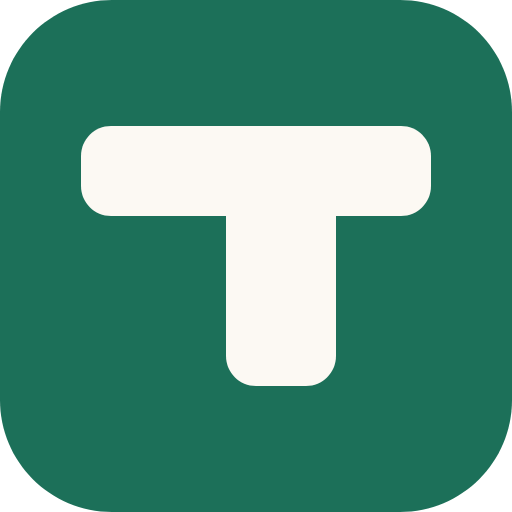
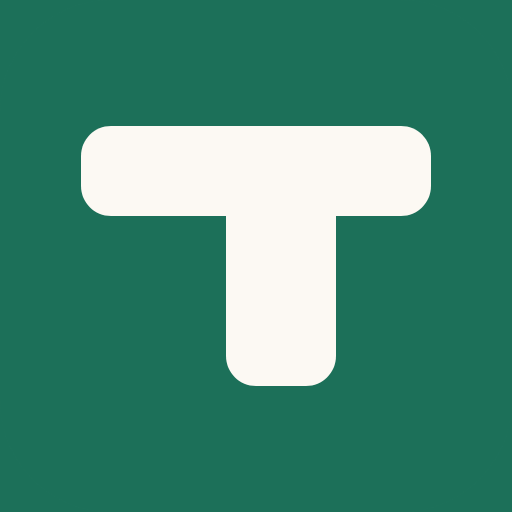
修 manifest 圖示的透明角，補成 DESIGN.md 要求的方形滿版
真機回報深色主畫面下 app icon 是黑底白 T。伺服器端先前已全部排除，這次
逐像素檢查抓到實作違規：icon-192.png 與 icon-512.png 的角落是 A0 全透明
（預先切了圓角），只有 apple-touch-icon.png 是合規的滿版。DESIGN.md v2.5
早就寫了「PNG 一律方形滿版、不預先切圓角——透明角在暗色桌面上被合成成
暗色」，但那兩個檔一直沒照做；圖片資產沒有 lint 也沒有測試會抓，規則寫在
文件裡不等於檔案照做。已把透明區合成到 --accent 底補滿，版本參數 bump v3。

另查證並記進 DESIGN.md：web 端無法為 PWA 指定深色模式圖示變體，
prefers-color-scheme 對 icon 無效（只對 splash screen 有效），iOS 18 的
深色／色調圖示是原生 app 用 Xcode asset catalog 提供的，web clip 沒有對應
機制，也沒有退出系統處理的開關。

diff --git a/index.html b/index.html
@@ -2,9 +2,9 @@
 <html lang="zh-Hant">
   <head>
     <meta charset="UTF-8" />
-    <link rel="icon" type="image/svg+xml" href="./favicon.svg?v=2" />
-    <link rel="apple-touch-icon" href="./apple-touch-icon.png?v=2" />
-    <link rel="manifest" href="./manifest.webmanifest?v=2" />
+    <link rel="icon" type="image/svg+xml" href="./favicon.svg?v=3" />
+    <link rel="apple-touch-icon" href="./apple-touch-icon.png?v=3" />
+    <link rel="manifest" href="./manifest.webmanifest?v=3" />
     <meta name="theme-color" content="#1C7059" />
     <meta name="viewport" content="width=device-width, initial-scale=1, viewport-fit=cover" />
     <meta name="color-scheme" content="light" />

diff --git a/session-state/active.md b/session-state/active.md
@@ -18,17 +18,15 @@
 
 ### 本輪（2026-08-03，`823d929`）：今日頁品項就地編輯，DESIGN.md → v2.20
 
-走完 dev-flow（規模大）＋ ui-design-flow ➊➋➌。點按品項就地展開編輯區（份量 stepper ＋ 餐別
-分段控制器 ＋ 刪除），**長按開 sheet 整套移除**。完整決策與被否決的方案記在 DESIGN.md v2.20，
-這裡只留三個之後還用得到的結論：
+走完 dev-flow（規模大）＋ ui-design-flow ➊➋➌➍ ＋ precommit-review（light）。點按品項就地展開
+編輯區（份量 stepper ＋ 餐別分段控制器 ＋ 刪除），**長按開 sheet 整套移除**。完整決策、被否決的
+方案、兩道 review 的處置明細全部記在 DESIGN.md v2.20，這裡只留兩個之後還用得到的結論：
 
 - **需求追到底才發現問法是錯的**：使用者要的「編輯這筆紀錄的品名與熱量」在資料模型下走不通
   （`intake` 只存快照與 `food_id`，品名是 join `foods` 拿的），真正的解是「以現有食物為範本
-  新增食物」——已併進食品庫管理那一輪的範圍，不在這裡做。
+  新增食物」——已併進食品庫管理那一輪的範圍。
 - **拒絕了「長按改成拖曳換餐別」**：同元素兩套 drag ＋ 跨區段 hit-testing ＋ 小螢幕手指擋目標，
   換來的只是把「一個月幾次」的操作少一步。拖曳真正贏的場景是排序，Tally 沒有手動排序。
-- 三輪 A/B 樣張才收斂（刪除鈕位置 → 形狀家族與右緣對齊 → 內距與懸出），使用者兩次指出的
-  都是我沒看到的問題（形狀家族混用、12px 對齊差）。
 
 ## 已驗證事實
 
@@ -65,12 +63,18 @@
 
 ## 未解失敗
 
-- **app icon 真機仍顯示黑底白 T（2026-08-03 診斷，等使用者回報）**。伺服器端全部排除：Actions
-  五次部署皆 success、線上 `manifest.webmanifest` 帶 `?v=2`、`apple-touch-icon.png` 與 repo
-  md5 一致、**檔案打開看過是綠底白 T**。剩兩個嫌疑，都在 iOS 端：
-  ① **iOS 18 主畫面圖示外觀設定**（長按主畫面 → 編輯 → 自訂，選了「深色」或「色調」的話系統會
-  把沒提供深色版的圖示壓暗，綠底變黑、白 T 保留，跟回報一模一樣）——三秒可驗，先查這個；
-  ② Web Clip 圖示快取（要移除主畫面圖示 →「設定 › Safari › 清除瀏覽記錄與網站資料」→ 重加，缺一步都可能沒換）。
+- **app icon 在 iOS 深色主畫面下顯示黑底白 T**（使用者確認他刻意用深色模式，要的就是深色下也正確）。
+  進度：**伺服器端全部排除**（部署 success、線上檔與 repo md5 一致、圖檔本身是綠底白 T）。
+  **2026-08-03 逐像素檢查抓到一個實作違規並已修**：`icon-192.png`／`icon-512.png` 的角落是
+  `A0` 全透明（預先切了圓角），違反 DESIGN.md v2.5 自己寫的「PNG 一律方形滿版、不預先切圓角
+  ——透明角在暗色桌面上被合成成暗色」；只有 `apple-touch-icon.png` 合規。已把透明區合成到
+  `--accent` 底補成滿版，版本參數 bump `?v=3`。**等真機再驗**（要移除主畫面圖示 →
+  「設定 › Safari › 清除瀏覽記錄與網站資料」→ 重加，缺一步都可能沒換）。
+  **已查證的天花板**：web 端**無法**為 PWA 指定深色模式圖示變體——`prefers-color-scheme` 對
+  icon 無效（只對 splash screen 有效），iOS 18 的深色／色調圖示是原生 app 用 Xcode asset
+  catalog 提供的，web clip 沒有對應機制，也沒有退出系統處理的開關。所以「深色下跟淺色長一樣、
+  不要翻轉」在 web 端做不到。**若補滿版後仍不理想，剩下唯一的槓桿是把背景做成透明、只留 T 的
+  形狀**（讓系統填深色底 → 深底綠 T），代價是淺色模式的外觀也會跟著變成淺底綠 T，要使用者裁決。
 - **vitest 在 Git Bash 集合階段全炸**：已定位 MSYS 環境特有，實務解＝本機一律 PowerShell 跑。
 - **全量並行跑（5 workers）時偶發 flaky**：`tally.spec.ts` 撞過「刪除後焦點沒接到復原鈕」，
   `vendor-autocomplete.spec.ts` 撞過「打新店家送出」（2026-08-03）。兩者單獨跑都穩定過，
@@ -114,18 +118,11 @@
 
 1. **本輪已 push（`823d929`，2026-08-03）**，兩道 review 都跑完。全量驗證：vitest 59/59、
    build、lint 0、e2e 31/31、webkit 393×745 截圖與幾何量測看過。
-   - **`ui-design-flow` ➍ 首次真的執行**：三個獨立 reviewer 並行（hallmark／impeccable／
-     web-design-guidelines），38 條 findings，回修 16 條、實測推翻 2 條、附理由不修 5 條，
-     明細記在 DESIGN.md v2.20。
-   - **`precommit-review`（light，runId `wf_4b061f06-25f`）**：1 條 confirmed major
-     ＋ 8 條 unverified-minor ＋ 1 條被對抗性驗證駁回。confirmed 那條是**本輪自己引入的
-     迴歸**——失敗訊息提到 Today 層時，沒把 v2.14 sheet 每次開啟都 `setEditErr(null)` 這件事
-     帶過來，收合再展開同一列會重現上次的錯誤。已修並補 e2e 鎖（順帶擴充 `stub.ts` 加
-     `__failNext` 一次性寫入失敗注入，這環境 `page.route()` 不攔截，失敗路徑只能從 stub
-     內部注入）。另修 4 條 minor（async 回呼蓋掉別列、e2e 註解仍寫 FLIP、`.seg button:disabled`
-     死 CSS、`updateIntakeMeal` 型別收斂成 `MealKey`）、`.ed-error` 與 `.sheet-error` 合併。
-     2 條標理由不修（Supabase 原始錯誤訊息透傳＝與既有慣例一致且單人自用；`patchIntakeRow`
-     守門是刻意保留的 hedge，註解已誠實記帳）。
+   - **➍**（首次真的執行）：3 個獨立 reviewer，38 findings → 回修 16、實測推翻 2、附理由不修 5。
+   - **`precommit-review` light，runId `wf_4b061f06-25f`**：1 confirmed（本輪引入的迴歸：失敗
+     訊息提到 Today 層時漏帶舊 sheet 的 `setEditErr(null)`，收合再展開會重現舊錯誤）已修＋補
+     e2e 鎖；另修 4 minor、2 條標理由不修。**順帶擴充 `stub.ts` 的 `__failNext`**：一次性寫入
+     失敗注入，這環境 `page.route()` 完全不攔截，失敗路徑只能從 stub 內部注入。
    **實測補充**（AC7 鍵盤路徑的證據）：從品名列按一次 Tab，焦點落在「減少份量」按鈕
    （實測 `activeElement` 為 `.qty-btn[aria-label="減少份量"]`）；最後一列展開後編輯區
    底部 625、tabbar 頂部 682（viewport 745），`scrollIntoView({block:'nearest'})` 留下

diff --git a/DESIGN.md b/DESIGN.md
@@ -141,7 +141,7 @@ leading 反向：大字緊（主數字 `.95`、餐別名 `1.2`），內文鬆（
 | 空狀態（每天早上） | **不做 0% 的最小可見態、不填那段空白**。數字（`1860`、`0/1860`）與四個空心節點已經讀得出「今天還沒開始」；補文案解釋已在下方否決，補假的進度條像素則是騙人 |
 | 登入頁 | **極簡（v2.0，Meta splash 式）**：畫面中心＝48px 幾何 T mark（jade）＋主角問句「今天吃了什麼？」（1.25rem / 500 / `--ink`、與 mark 間距 `--s-4`）；CTA 沉到**底部拇指區**（同 app 內「CTA 固定在拇指區」原則）。此屏只在首次使用或登出後出現——session 會持續，平常打開直接進今日頁。**不放 Google 彩色 logo**——fill-based 圖示與「全部 inline SVG、`stroke-width: 1.6`、`fill: none`」的規則相斥，也省掉 Google 品牌指南的一串約束 |
 | Wordmark | **全產品不出現（v2.0 裁決）**。品牌只靠幾何 T icon；「Tally」字樣只活在 HTML `title` 與主畫面 app 名稱。連帶：wordmark 字體題作廢——當時「零 webfont、零自架字體」維持無例外，**v2.7 起改為「零 webfont（CDN 載入），數字元素允許自架」**，見「字體」章節 |
-| App icon | 方向 3 幾何 T，**v2.5 反轉配色**：`--accent` 實心底 ＋ `--card` T（1024 稿座標不變：橫 bar x162 y252 700×180 rx60、豎 stem x452 y252 220×520 rx60）。輸出 180px PNG 當 `apple-touch-icon`，favicon 用同一張圖形（favicon 保留 rx224 圓角，瀏覽器分頁不套遮罩）。60px 是驗收點——縮到書籤大小仍讀得出 T。**PNG 一律方形滿版、不預先切圓角**：iOS 對 web clip 會套自己的 squircle 遮罩，PNG 自己先切一次等於兩層圓角疊在一起，透明角在暗色桌面上被合成成暗色，整顆看起來偏濁（真機回報「暗色模式下 T 的綠太深」的可能成因之一）。反轉的另一個好處是暗桌面上的存在感——淺色 T 在深色底上不吃桌布 |
+| App icon | 方向 3 幾何 T，**v2.5 反轉配色**：`--accent` 實心底 ＋ `--card` T（1024 稿座標不變：橫 bar x162 y252 700×180 rx60、豎 stem x452 y252 220×520 rx60）。輸出 180px PNG 當 `apple-touch-icon`，favicon 用同一張圖形（favicon 保留 rx224 圓角，瀏覽器分頁不套遮罩）。60px 是驗收點——縮到書籤大小仍讀得出 T。**PNG 一律方形滿版、不預先切圓角**：iOS 對 web clip 會套自己的 squircle 遮罩，PNG 自己先切一次等於兩層圓角疊在一起，透明角在暗色桌面上被合成成暗色，整顆看起來偏濁。**這條規則 v2.5 就寫了，但 `icon-192.png`／`icon-512.png` 兩個檔一直沒照做——2026-08-03 逐像素檢查發現它們的角落是 `A0` 全透明，只有 `apple-touch-icon.png` 是合規的滿版**（規則寫在文件裡不等於檔案照做，圖片類資產沒有 lint 也沒有測試會抓，只能定期實際量）。已把兩檔的透明區合成到 `--accent` 底色上補成滿版，版本參數同步 bump 到 `?v=3`。**另已查證：web 端無法為 PWA 指定深色模式圖示變體**——`prefers-color-scheme` 對 icon 無效（只對 splash screen 有效），iOS 18 的深色／色調圖示是原生 app 透過 Xcode asset catalog 提供的，web clip 沒有對應機制，也沒有退出系統處理的開關。若補成滿版後深色模式仍不理想，剩下的唯一槓桿是把背景做成透明、只保留 T 的形狀（讓系統填底色），代價是淺色模式的外觀也會跟著變。反轉的另一個好處是暗桌面上的存在感——淺色 T 在深色底上不吃桌布 |
 | 設定頁（第一版） | 唯讀 `dl` 清單：今日目標四項 ＋「怎麼算出來的」（體重／量測日／身高／年齡／BMR／活動係數／TDEE／目標／三大比例）＋ 兩個次要動作（記體重、編輯身體參數）＋ 登出。**目標怎麼來的要看得到**——1860 是算出來的，看不到算式就只能相信它 |
 | 設定頁的編輯與記體重 | 都走**同一套 sheet**，不另做頁面。身體參數：生日／身高＋性別／目標＋活動係數／三大比例三欄，欄位規則同新增食物（floating label）。三大比例相加必須 100，前端先擋（DB 的 check 是最後一道）。記體重：量測日預設今天、體重必填、體脂選填；同一天再記是**覆蓋**（`unique(user_id, measured_on)`，寫入帶 `Prefer: resolution=merge-duplicates`）。兩者存檔後重算目標並**留在設定頁**，不跳回今日頁 |
 | floating label 的高度 | 欄位 60px、上內距 26px、label 浮起後 `top: 8px` ＋ `line-height: 1`。**這四個值是一組的**：樣張原本的 52/18/13 會讓 label 行盒與輸入文字重疊（實測重疊 4.7px），字擠成一團。改動任一個要重量 label 底緣與文字起點的距離（目前 7.3px） |
